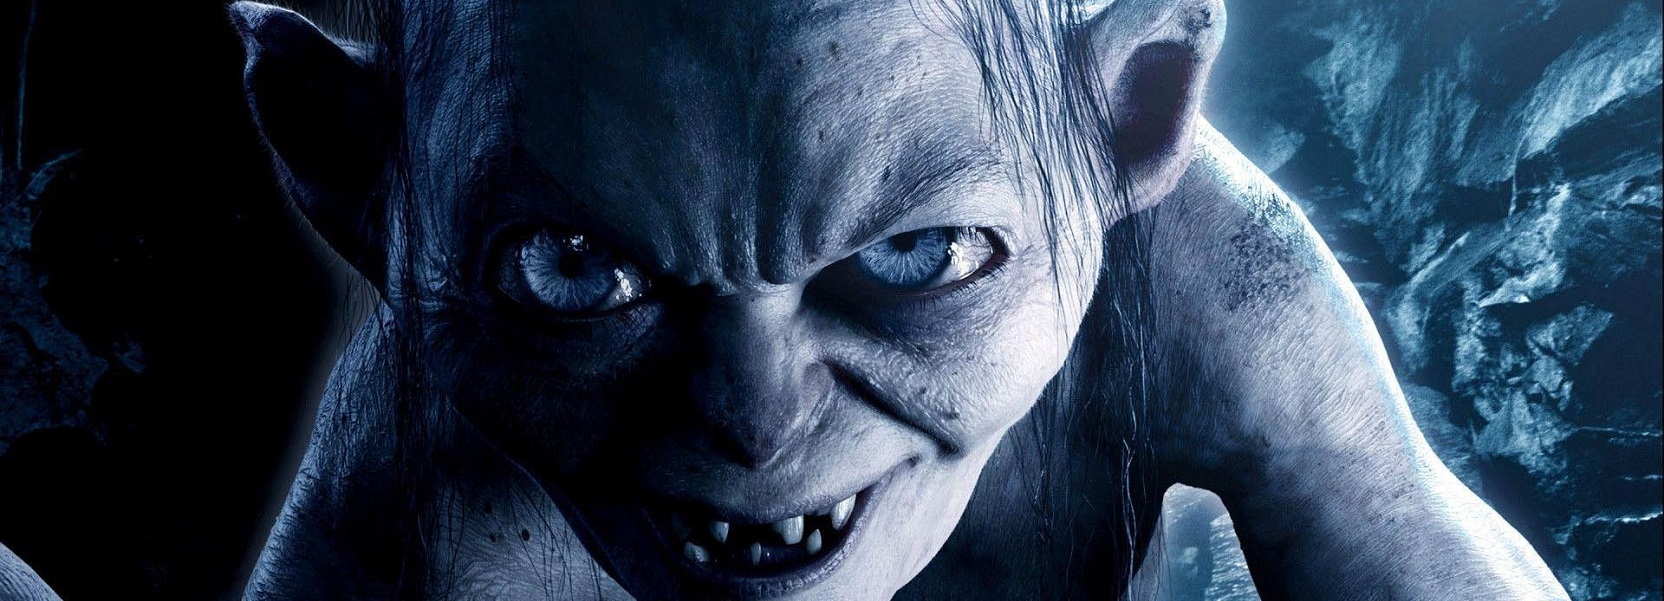
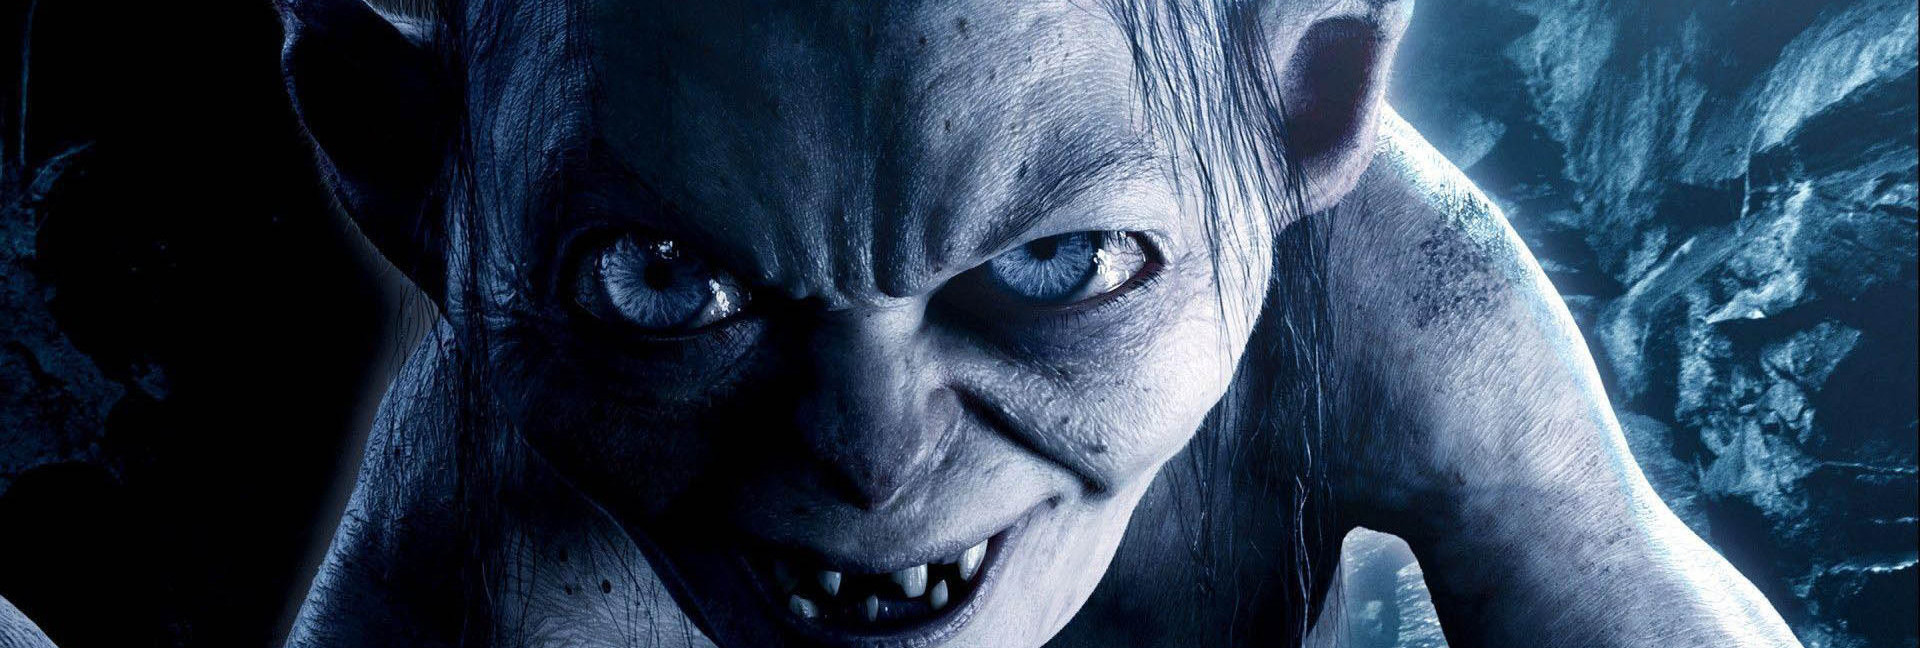
Part one final

diff --git a/index.html b/index.html
@@ -72,7 +72,7 @@
                         </div>
                     </div>
                     <div class="carousel-item">
-                        <img class="d-block w-100" src="img/gollum_wp-ConvertImage.jpg" alt="gollum">
+                        <img class="d-block w-100" src="img/gollum.jpg" alt="gollum">
                         <div class="carousel-caption d-none d-md-block">
                             <h4>lorem ipsum dolor sit amet, consectetur adipisicing elit. </h4>
                             <p>Lorem ipsum dolor sit amet, consectetur adipisicing elit, Soluta .</p>
